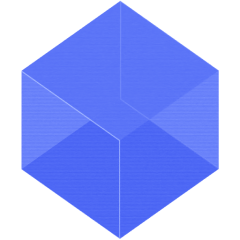
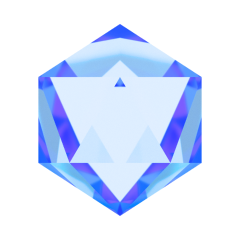
chore: update booster

diff --git a/src/pages/booster/overview/overview-h5.vue b/src/pages/booster/overview/overview-h5.vue
@@ -5,7 +5,7 @@
       @click="handleOpenSheet"
     >
       <div class="rate-box">
-        <img src="/img/booster/3d-square.png" width="40" alt="" />
+        <img src="/img/booster/3d-square-full.png" width="40" alt="" />
         <span class="text fw-b">{{ Math.ceil(totalRate) }}/H</span>
       </div>
       <div>
@@ -66,13 +66,13 @@
               </div>
               <div v-else class="text-center fz-12">
                 <div class="unlock-btn" @click="handleUnlock(0)">Unlock</div>
-                <div>Unlock with 50,000 LAND</div>
+                <div>Consumes 1 million LAND to unlock.</div>
               </div>
 
               <div class="task-title">Storage Boost</div>
               <div class="d-flex align-center justify-space-between fz-12">
                 <span>Base</span>
-                <span>20/H</span>
+                <span>100/H</span>
               </div>
             </div>
           </div>
@@ -103,12 +103,12 @@
               </div>
               <div v-else class="text-center fz-12">
                 <div class="unlock-btn" @click="handleUnlock(1)">Unlock</div>
-                <div>Unlock with 50,000 LAND</div>
+                <div>Consumes 1 million LAND to unlock.</div>
               </div>
               <div class="task-title">Computing Boost</div>
               <div class="d-flex align-center justify-space-between fz-12">
                 <span>Base</span>
-                <span>20/H</span>
+                <span>100/H</span>
               </div>
             </div>
           </div>
@@ -139,12 +139,12 @@
               </div>
               <div v-else class="text-center fz-12">
                 <div class="unlock-btn" @click="handleUnlock(2)">Unlock</div>
-                <div>Unlock with 50,000 LAND</div>
+                <div>Consumes 1 million LAND to unlock.</div>
               </div>
               <div class="task-title">Network Boost</div>
               <div class="d-flex align-center justify-space-between fz-12">
                 <span>Base</span>
-                <span>20/H</span>
+                <span>100/H</span>
               </div>
             </div>
           </div>
@@ -162,7 +162,15 @@
                 : computedPoints.toFixed(3)
             }}/{{ boosterInfo.capacity }}
           </span>
-          <img src="/img/booster/3d-square.png" width="64" alt="" />
+          <img
+            :src="
+              computedPoints >= boosterInfo.capacity
+                ? '/img/booster/3d-square-full.png'
+                : '/img/booster/3d-square.png'
+            "
+            width="64"
+            alt=""
+          />
           <img
             class="pos-a"
             style="left: 50%; top: 30%; transform: translateX(-50%)"

diff --git a/src/pages/booster/overview/overview-pc.vue b/src/pages/booster/overview/overview-pc.vue
@@ -56,7 +56,15 @@
                 : computedPoints.toFixed(3)
             }}/{{ boosterInfo.capacity }}
           </span>
-          <img src="/img/booster/3d-square.png" width="120" alt="" />
+          <img
+            :src="
+              computedPoints >= boosterInfo.capacity
+                ? '/img/booster/3d-square-full.png'
+                : '/img/booster/3d-square.png'
+            "
+            width="120"
+            alt=""
+          />
           <img
             class="pos-a"
             style="left: 50%; top: 32%; transform: translateX(-50%)"
@@ -99,7 +107,7 @@
                 <img src="/img/booster/svg/actived.svg" width="16" alt="" />
               </div>
               <div v-else class="fz-12 text-center">
-                Consumes 1,000,000 LAND to unlock
+                Consumes 1 million LAND to unlock.
               </div>
               <div class="task-title">Storage Boost</div>
               <div class="d-flex align-center justify-space-between fz-12">
@@ -152,7 +160,7 @@
                 <img src="/img/booster/svg/actived.svg" width="16" alt="" />
               </div>
               <div v-else class="fz-12 text-center">
-                Consumes 1,000,000 LAND to unlock
+                Consumes 1 million LAND to unlock.
               </div>
               <div class="task-title">Computing Boost</div>
               <div class="d-flex align-center justify-space-between fz-12">
@@ -206,7 +214,7 @@
                 <img src="/img/booster/svg/actived.svg" width="16" alt="" />
               </div>
               <div v-else class="fz-12 text-center">
-                Consumes 1,000,000 LAND to unlock
+                Consumes 1 million LAND to unlock.
               </div>
               <div class="task-title">Network Boost</div>
               <div class="d-flex align-center justify-space-between fz-12">
@@ -392,7 +400,7 @@ export default {
 }
 .point-square {
   position: absolute;
-  left: 49.9%;
+  left: 50.3%;
   top: 30%;
   .top-card {
     position: absolute;

diff --git a/src/pages/booster/explore/index.vue b/src/pages/booster/explore/index.vue
@@ -39,7 +39,15 @@
                 : computedPoints.toFixed(3)
             }}/{{ info.capacity }}
           </span>
-          <img src="/img/booster/3d-square.png" width="120" alt="" />
+          <img
+            :src="
+              computedPoints >= info.capacity
+                ? '/img/booster/3d-square-full.png'
+                : '/img/booster/3d-square.png'
+            "
+            width="120"
+            alt=""
+          />
           <img
             class="pos-a"
             style="left: 50%; top: 30%; transform: translateX(-50%)"
@@ -338,7 +346,7 @@ export default {
 
   .point-square {
     position: absolute;
-    left: 49.9%;
+    left: 50.3%;
 
     top: 31%;
     .top-card {

diff --git a/src/pages/booster/components/start-boosting.vue b/src/pages/booster/components/start-boosting.vue
@@ -353,6 +353,14 @@ export default {
       cursor: pointer;
     }
   }
+  .boosting-task:hover {
+    background: linear-gradient(
+        270deg,
+        rgba(0, 114, 248, 0) 0.18%,
+        rgba(0, 114, 248, 0.2) 100.11%
+      ),
+      url("/img/booster/svg/fringe-bg.svg");
+  }
   .start-boost-btn {
     margin-top: 8px;
     padding: 16px 24px;
